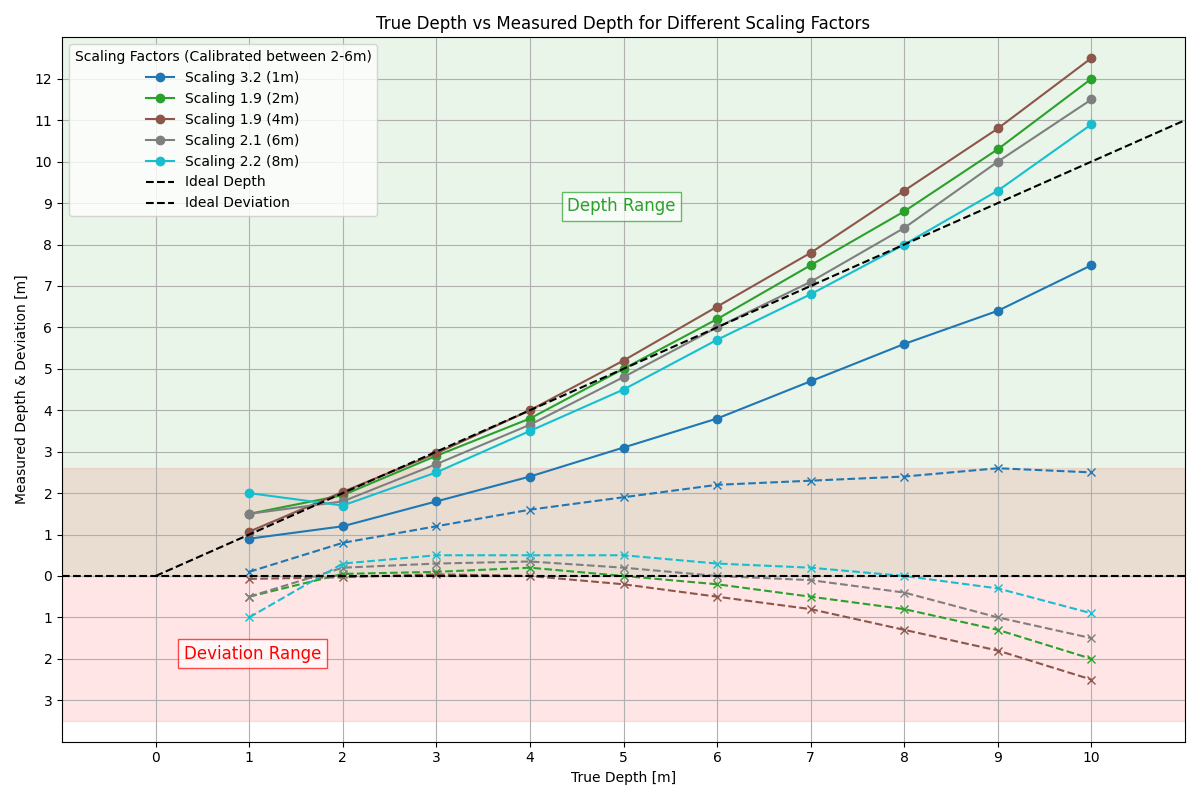
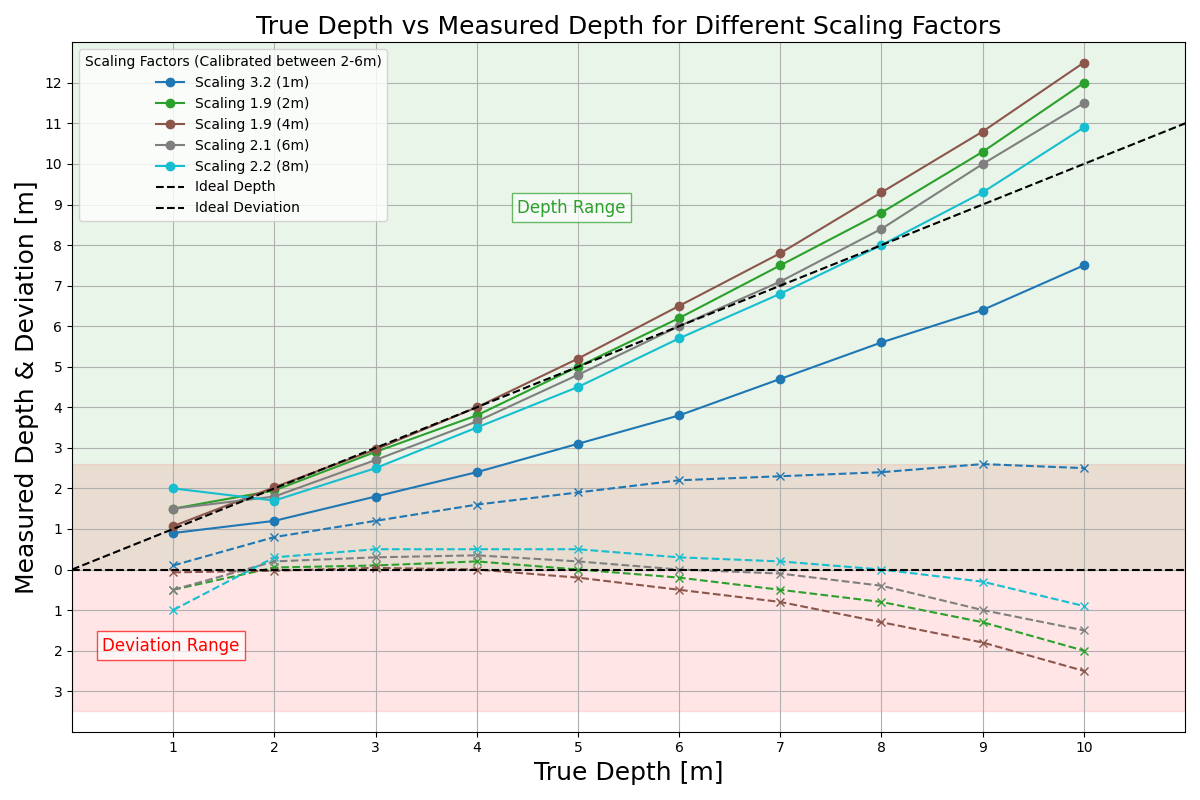
Updated figures

diff --git a/Validation/AdjustedMeasurements.py b/Validation/AdjustedMeasurements.py
@@ -53,6 +53,7 @@ colors = plt.cm.tab10.colors
 plt.figure(figsize=(12, 8))
 
 # Plot 'Real Depth vs Measured/Adjusted Depth'
+plt.legend(title="Scaling factor: 1.9")
 plt.plot(meter_range, mean_measured, label='Measured', marker='o', linestyle='-', color=colors[0])
 plt.plot(meter_range, mean_adjusted, label='Adjusted', marker='o', linestyle='-', color=colors[1])
 # plt.plot([0, 15], [0, 15], linestyle='--', color="black", label='Ideal Depth')  # Extend the line to 15
@@ -63,9 +64,9 @@ plt.plot(meter_range, error_adjusted, marker='o', linestyle='-', color=colors[1]
 
 plt.axhline(0, color="black", linestyle='--', label='Ideal Deviation')
 
-plt.xlabel('True Depth [m]')
-plt.ylabel('Measured/Adjusted Depth & Deviation [m]')
-plt.title('True Depth vs Measured/Adjusted Depth')
+plt.xlabel('True Depth [m]', fontsize=18)
+plt.ylabel('Measured/Adjusted Depth & Deviation [m]', fontsize=18)
+plt.title('True Depth vs Measured/Adjusted Depth', fontsize=18)
 
 plt.legend()
 plt.grid(True)
@@ -89,15 +90,15 @@ plt.text(
 plt.axhspan(
     ymin=0,
     ymax=max(max(mean_measured), max(mean_adjusted))+1,
-    color=colors[4], alpha=0.1
+    color="green", alpha=0.1
 )
 plt.text(
     x=6.7,
     y=3.7,
     s="Depth Range",
     fontsize=12,
-    color=colors[4],
-    bbox=dict(facecolor='white', alpha=0.7, edgecolor=colors[4])
+    color="green",
+    bbox=dict(facecolor='white', alpha=0.7, edgecolor="green")
 )
 
 plt.xticks(plotrange_x)

diff --git a/Validation/InitialMeasurements.py b/Validation/InitialMeasurements.py
@@ -30,7 +30,7 @@ with open(file_path, 'r') as f:
                 print(f"Skipping invalid line: {line}")
 
 # Configuration for x and y axes
-x_min, x_max = -1, 11  # Set x-axis range
+x_min, x_max = 0, 11  # Set x-axis range
 y_min, y_max = -4, 13  # Set y-axis range
 y_ticks = range(y_min, y_max + 1)  # Set y-axis ticks
 
@@ -105,9 +105,9 @@ plt.xticks(range(x_min + 1, x_max))  # Exclude the first and last numbers on the
 plt.yticks(range(y_min + 1, y_max), [abs(y) for y in range(y_min + 1, y_max)])  # Exclude the first and last numbers on the y-axis as absolute values
 
 # Add labels, title, and legend
-plt.xlabel("True Depth [m]")
-plt.ylabel("Measured Depth & Deviation [m]")
-plt.title("True Depth vs Measured Depth for Different Scaling Factors")
+plt.xlabel("True Depth [m]", fontsize=18)
+plt.ylabel("Measured Depth & Deviation [m]", fontsize=18)
+plt.title("True Depth vs Measured Depth for Different Scaling Factors", fontsize=18)
 plt.legend(title="Scaling Factors (Calibrated between 2-6m)", loc='upper left')
 plt.grid(True)
 
